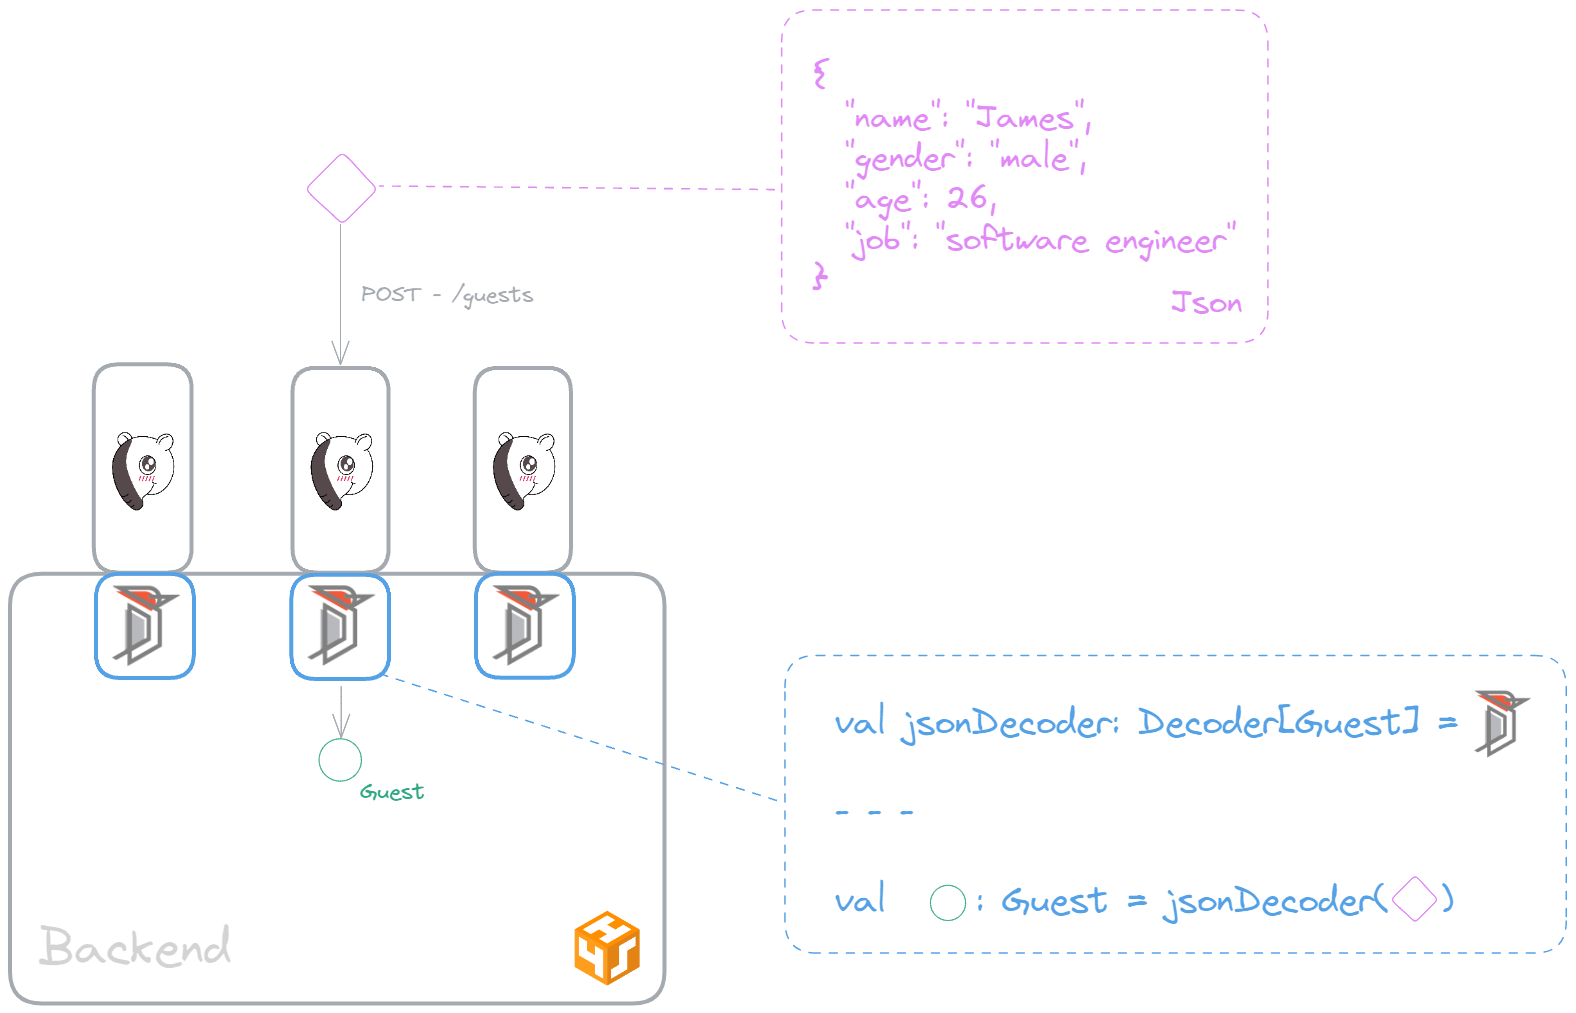
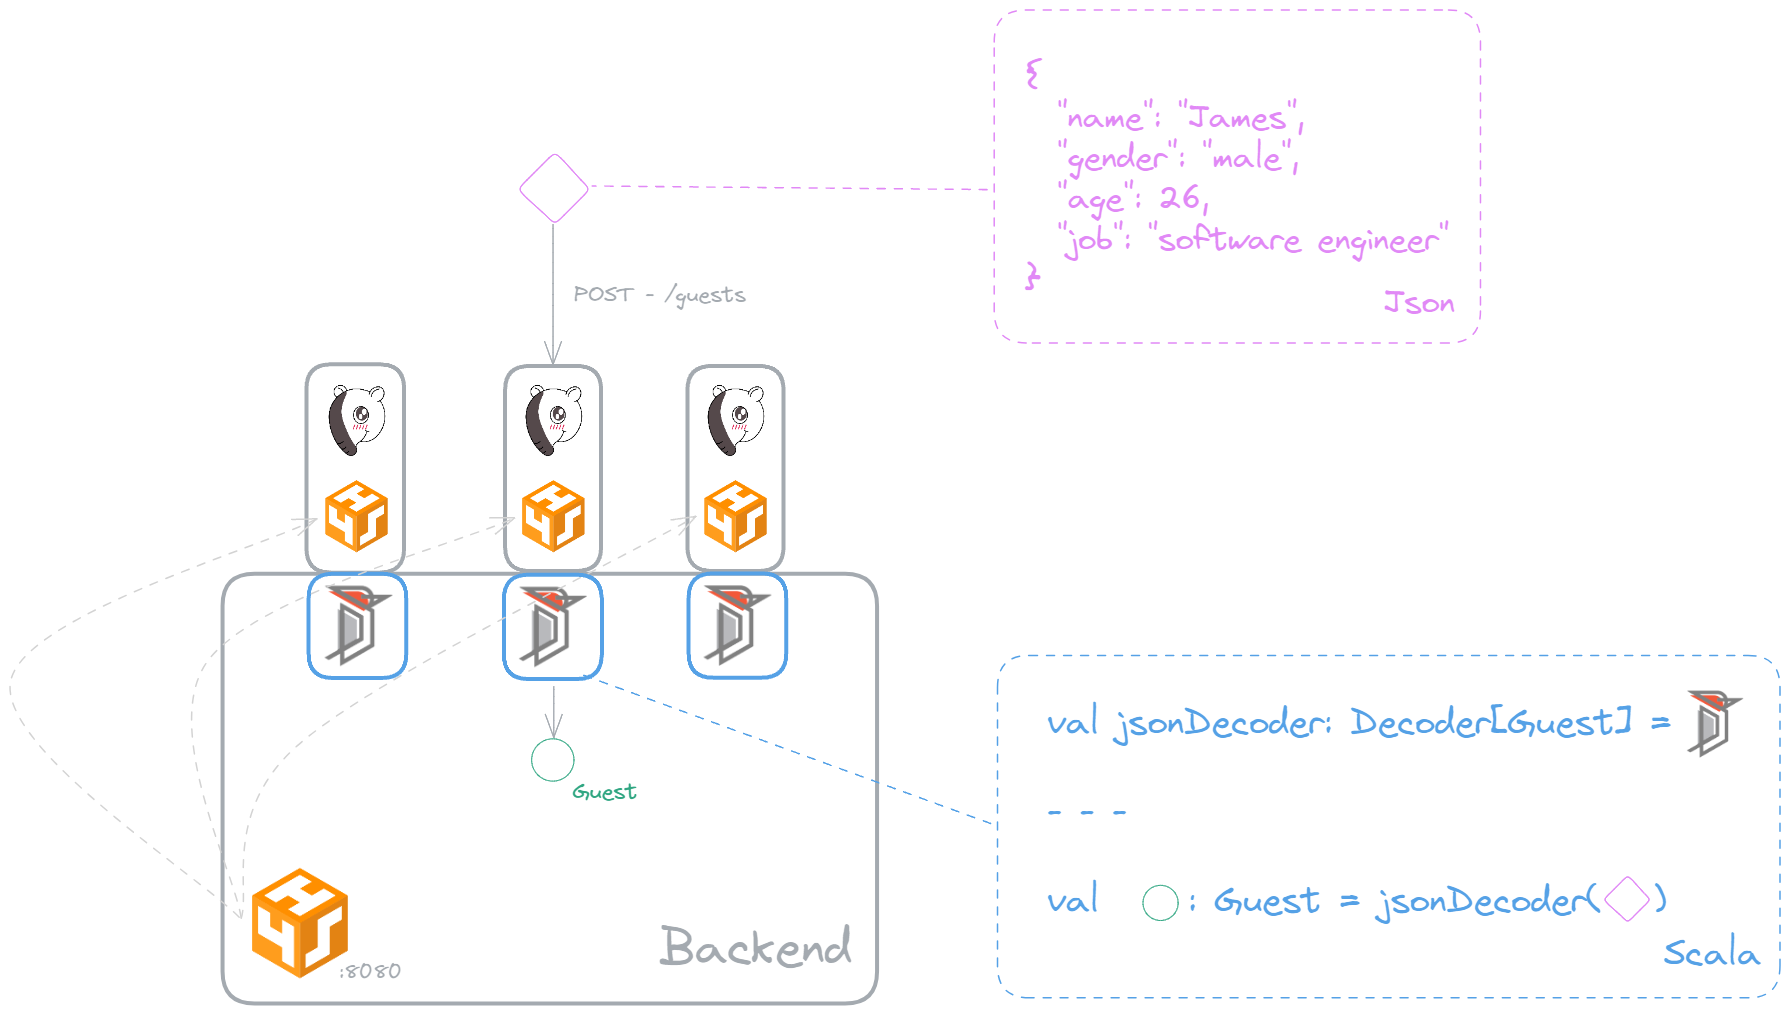
WIP: First bridge endpoint

diff --git a/docs/posts/0/index.md b/docs/posts/0/index.md
@@ -28,18 +28,244 @@ Let's check out what is each library:
 As of now, in the Scala ecosystem, there are no actively maintained, production-ready alternatives to Tapir. However, alternatives to http4s include Play and Akka/Pekko Http, with Play being more a full-stack web framework. For JSON handling, alternatives to Circe include json4s, ZIO-json, and Play JSON. According to the [2023 Scala survey](https://scalasurvey2023.virtuslab.com/), it appears that the community is leaning towards the Typelevel ecosystem when it comes to building backend systems. You can also check library comparison websites like [LibHunt](https://scala.libhunt.com/) for further insights.
 
 <figure markdown="span">
-  ![Akka/Pekko ecosystem](image-2.png)
-  ![Typelevel ecosystem](image-3.png)
+  ![Akka/Pekko ecosystem VS Typelevel ecosystem](image-2.png)
   <figcaption>Akka/Pekko ecosystem VS Typelevel ecosystem</figcaption>
 </figure>
 
 Either way, all these alternatives are production-ready and actively maintained. You cannot go wrong with choosing any of them.
 
-## 🚀 Adventure Begins!
+## 🏰 Let's Build Our Backend Castle!
 
-### 🏰 Backend Lair Setup
+Setting up a Scala project is essential, and in our case, we'll do it using IntelliJ. However, you can also opt for VSCode with Metals. If it is your first time setting up a Scala project, you can follow Scala's official tutorial ["Getting Started with Scala in IntelliJ"](https://docs.scala-lang.org/getting-started/intellij-track/getting-started-with-scala-in-intellij.html). The folder structure should be as follows:
 
-### ⚔ First Epic Endpoint!
+```
+backend/
+├── project/
+│   ├── build.properties
+│   └── plugins.sbt
+├── src/
+│   └── main/
+│       ├── resources/
+│       └── scala/
+│           └── Main.scala
+└── build.sbt
+```
+
+In your `build.sbt`, please add the following dependencies:
+
+```scala
+/**
+ * Dev dependencies.
+ */
+// Cats & Scala extensions
+// https://mvnrepository.com/artifact/org.typelevel/cats-effect
+libraryDependencies += "org.typelevel" %% "cats-effect"        % "3.5.3"
+// https://github.com/oleg-py/better-monadic-for (look tags for version)
+addCompilerPlugin("com.olegpy"         %% "better-monadic-for" % "0.3.1")
+// https://mvnrepository.com/artifact/dev.optics/monocle-core
+libraryDependencies += "dev.optics"    %% "monocle-core"       % "3.2.0"
+
+// Tapir
+// https://mvnrepository.com/artifact/com.softwaremill.sttp.tapir/tapir-http4s-server
+libraryDependencies += "com.softwaremill.sttp.tapir" %% "tapir-http4s-server"     % "1.9.10"
+// https://mvnrepository.com/artifact/com.softwaremill.sttp.tapir/tapir-json-circe
+libraryDependencies += "com.softwaremill.sttp.tapir" %% "tapir-json-circe"        % "1.9.10"
+// https://mvnrepository.com/artifact/com.softwaremill.sttp.tapir/tapir-swagger-ui-bundle
+libraryDependencies += "com.softwaremill.sttp.tapir" %% "tapir-swagger-ui-bundle" % "1.9.10"
+
+// Http4s
+// https://mvnrepository.com/artifact/org.http4s/http4s-ember-server
+libraryDependencies += "org.http4s" %% "http4s-ember-server" % "0.23.25"
+// https://mvnrepository.com/artifact/org.http4s/http4s-circe
+libraryDependencies += "org.http4s" %% "http4s-circe"        % "0.23.25"
+// https://mvnrepository.com/artifact/org.http4s/http4s-dsl
+libraryDependencies += "org.http4s" %% "http4s-dsl"          % "0.23.25"
+// https://mvnrepository.com/artifact/org.http4s/http4s-ember-client
+libraryDependencies += "org.http4s" %% "http4s-ember-client" % "0.23.25"
+
+// Circe
+// https://mvnrepository.com/artifact/io.circe/circe-parser
+libraryDependencies += "io.circe" %% "circe-parser"         % "0.14.6"
+// https://mvnrepository.com/artifact/io.circe/circe-generic
+libraryDependencies += "io.circe" %% "circe-generic"        % "0.14.6"
+// https://mvnrepository.com/artifact/io.circe/circe-generic-extras
+libraryDependencies += "io.circe" %% "circe-generic-extras" % "0.14.3"
+// https://mvnrepository.com/artifact/io.circe/circe-literal
+libraryDependencies += "io.circe" %% "circe-literal"        % "0.14.6"
+```
+
+You can run `Main.scala` by clicking on `▷` and selecting `Run 'Main'`. If it works, you are all set! 🥳
+
+### ⚡ Backend Electricity Setup
+
+Let's build our first electric central that will empower the future bridges:
+
+<figure markdown="span">
+  ![Backend Server Configuration](image-3.png)
+  <figcaption>Backend Server Configuration</figcaption>
+</figure>
+
+First setup our service which loads environment variables and our backend exceptions:
+
+```scala title="EnvLoaderConf.scala"
+package com.ilovedatajjia
+package config
+
+object EnvLoaderConf {
+  private val allEnvVar: Map[String, String] = sys.env
+
+  val backendPort: Int = allEnvVar.getOrElse("BACKEND_PORT", default = "8080").toInt
+}
+```
+
+```scala title="BackendException.scala"
+package com.ilovedatajjia
+package shared
+
+sealed trait BackendException extends Exception
+
+object BackendException {
+  case class BadRequestException(message: String)          extends BackendException
+  case class ServerInternalErrorException(message: String) extends BackendException
+}
+```
+
+Second setup our backend server:
+
+```scala title="BackendServerConf.scala"
+package com.ilovedatajjia
+package config
+
+import cats.effect.IO
+import com.comcast.ip4s._
+import org.http4s.ember.server.EmberServerBuilder
+import org.http4s.server.middleware.CORS
+import shared.BackendException.ServerInternalErrorException
+
+object BackendServerConf {
+  def start: IO[Unit] = for {
+    port <- IO.fromOption(Port.fromInt(envLoaderConf.backendPort))(
+              ServerInternalErrorException(s"Not processable port number ${envLoaderConf.backendPort}."))
+    _    <- EmberServerBuilder
+              .default[IO]
+              .withHost(ipv4"0.0.0.0") // Accept connections from any available network interface
+              .withPort(port)          // On port 8080
+              .build
+              .use(_ => IO.never)
+              .start
+              .void
+  } yield ()
+}
+```
+
+Let's finally build the switch to turn on the electricity! 💡
+
+```scala title="Main.scala"
+package com.ilovedatajjia
+
+import cats.effect._
+import config.BackendServerConf
+
+object Main extends IOApp.Simple {
+  override def run: IO[Unit] = BackendServerConf.start >> IO.never // == non-terminating
+}
+```
+
+If you visit [http://localhost:8080](http://localhost:8080) and see the message `Not found`, then congratulations! You've built your electric central! 🥳
+
+### 🌉 First Bridge Endpoint!
+
+It's now the exciting part because we are gonna connect to the external world with bridges! 🤩
+
+<figure markdown="span">
+  ![Backend Endpoint](image-4.png)
+  <figcaption>Backend Endpoint</figcaption>
+</figure>
+
+First, implement the business logic, which in our case involves counting the number of characters from a text.
+
+```scala title="TextSvc.scala"
+package com.ilovedatajjia
+package features.text
+
+import cats.effect.IO
+import cats.implicits._
+
+object TextSvc {
+  def countCharacters(text: String): IO[Int] = text.length.pure[IO]
+}
+```
+
+Second, build the bridge! 🌉⚒
+
+```scala title="TextCtrl.scala"
+package com.ilovedatajjia
+package features.text
+
+import cats.effect.IO
+import org.http4s.HttpRoutes
+import sttp.tapir._
+import sttp.tapir.json.circe._
+import sttp.tapir.server.http4s.Http4sServerInterpreter
+
+object TextCtrl {
+  def endpoints: List[AnyEndpoint] = List(countCharactersEpt)
+  def routes: HttpRoutes[IO]       = countCharactersRts
+
+  private val countCharactersEpt = endpoint // The endpoint and it is used to generate the OpenAPI doc
+    .summary("Count characters")
+    .get
+    .in("count-characters" / query[String]("text"))
+    .out(jsonBody[Int])
+  private val countCharactersRts =          // It converts the endpoint to actual http4s route :O
+    Http4sServerInterpreter[IO]().toRoutes(countCharactersEpt.serverLogicSuccess(text => TextSvc.countCharacters(text)))
+}
+```
+
+Lastly, connect our new, fresh 🌉 bridge to our electrical central ⚡—you know, the one we built in the previous part. 🤗
+
+```scala title="BackendServerConf.scala" hl_lines="22 29 30 31 32"
+package com.ilovedatajjia
+package config
+
+import cats.effect.IO
+import cats.implicits._
+import com.comcast.ip4s._
+import features.text.TextCtrl
+import org.http4s.ember.server.EmberServerBuilder
+import org.http4s.implicits._
+import shared.BackendException.ServerInternalErrorException
+import sttp.tapir.server.http4s.Http4sServerInterpreter
+import sttp.tapir.swagger.bundle.SwaggerInterpreter
+
+object BackendServerConf {
+  def start: IO[Unit] = for {
+    port <- IO.fromOption(Port.fromInt(EnvLoaderConf.backendPort))(
+              ServerInternalErrorException(s"Not processable port number ${EnvLoaderConf.backendPort}."))
+    _    <- EmberServerBuilder
+              .default[IO]
+              .withHost(ipv4"0.0.0.0")        // Accept connections from any available network interface
+              .withPort(port)                 // On port 8080
+              .withHttpApp(allRts.orNotFound) // Link all routes to the backend server
+              .build
+              .use(_ => IO.never)
+              .start
+              .void
+  } yield ()
+
+  private val docsEpt = // Merge all endpoints as a fully usable OpenAPI doc
+    SwaggerInterpreter().fromEndpoints[IO](TextCtrl.endpoints, "Backend", "1.0")
+  private val allRts  = // Serve the OpenAPI doc & all the other routes
+    Http4sServerInterpreter[IO]().toRoutes(docsEpt) <+> TextCtrl.routes
+}
+```
+
+If you visit [http://localhost:8080/docs](http://localhost:8080/docs) and end up on a SwaggerUI page, then congratulations! You've built your first bridge! 🥳 You can play a little bit with your endpoint! 😄
+
+<figure markdown="span">
+  ![SwaggerUI](image-5.png)
+  <figcaption>SwaggerUI</figcaption>
+</figure>
 
 ## 🎨 Mastering Circe & Tapir
 
